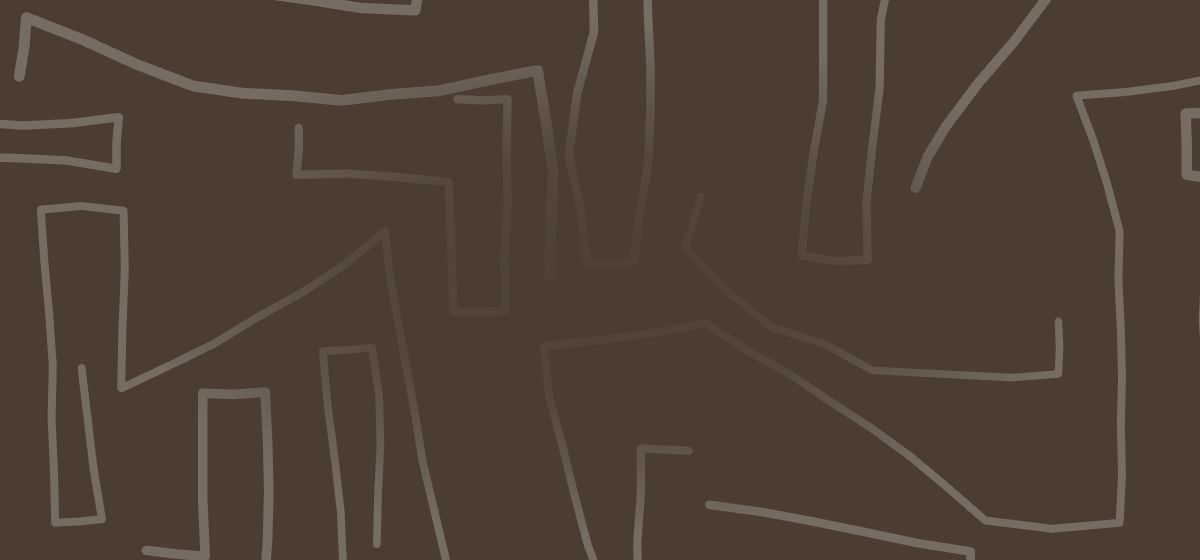
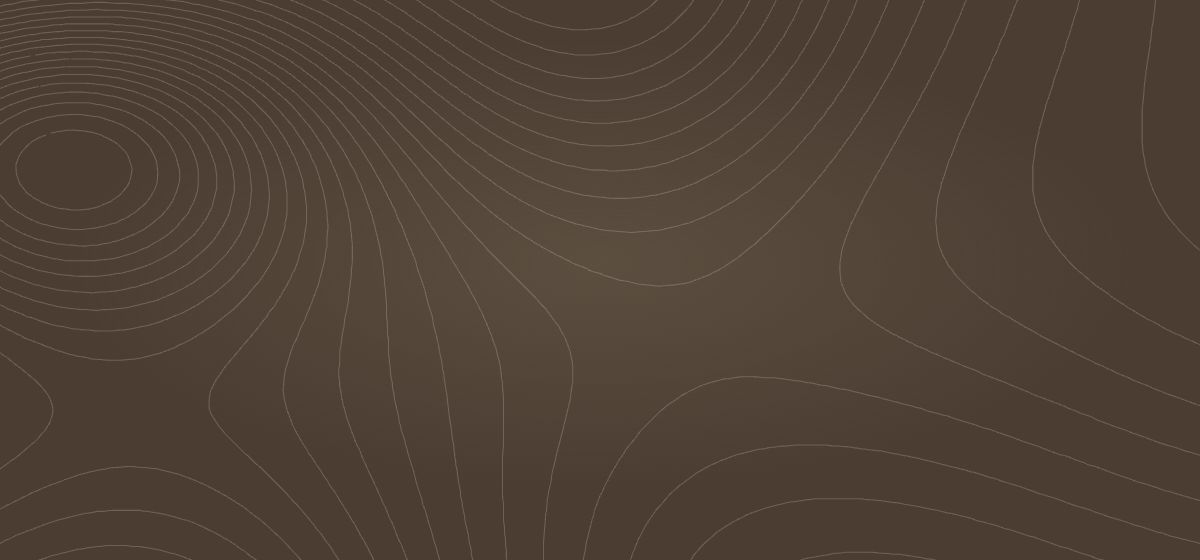
The Arden: restore the original contour-line background
Nina (2026-11-24): "The team prefers the original background graphic
with the swirls." Restore contours.svg from the first build with its
original settings (hero opacity 0.2, band 0.09, no espresso pool behind
the logo), delete round 1's lines.svg, and re-render the share image
and the email header on the contours. STATUS: round 4.

diff --git a/arden-franklin/theme/arden-franklin/assets/css/global.css b/arden-franklin/theme/arden-franklin/assets/css/global.css
@@ -3474,7 +3474,7 @@ html, body { overflow-x: clip; }
    29n. COMING-SOON SPLASH (index.html until the full site launches)
    ==========================================================================
    One page: a dark brand hero (no photography exists yet, so the hero is the
-   logo on espresso over the hand-drawn line pattern), an introduction, the
+   logo on espresso over the contour-line texture), an introduction, the
    amenity and unit-feature lists on a dark band, the setting, and the interest-list form. Every
    dark component here is registered in BOTH dark-band lists in section 4.
    ========================================================================== */
@@ -3506,17 +3506,17 @@ html, body { overflow-x: clip; }
   #about, #setting, #inquire { scroll-margin-top: var(--nav-height-mob); }
 }
 
-/* ---- Line pattern (assets/images/texture/lines.svg) -------------------------
-   An original hand-drawn pattern of bold, angular Stone lines that meander
-   without touching, made at Sterling's request (round 1, 2026-11-16) for a
-   graphic, wallpaper-like field in place of the first round's contour lines.
-   Used on the dark hero and band and on the Intrigue panel. */
+/* ---- Contour-line texture (assets/images/texture/contours.svg) --------------
+   Stone contour lines ("the swirls") generated for the brand's natural-
+   landscape story. Round 1 swapped them for a hand-drawn line pattern; the
+   team chose these back on 2026-11-24 (Nina), so they are restored with their
+   round-1 opacity and no espresso pool behind the hero logo. */
 .splash-pattern {
   position: absolute;
   inset: -4%;
   z-index: -1;
-  background: url("../images/texture/lines.svg") center / cover no-repeat;
-  opacity: 0.3;
+  background: url("../images/texture/contours.svg") center / cover no-repeat;
+  opacity: 0.2;
   pointer-events: none;
 }
 
@@ -3534,17 +3534,7 @@ html, body { overflow-x: clip; }
   overflow: hidden;
   text-align: center;
 }
-.splash-hero .splash-pattern { z-index: -2; animation: ar-pattern-drift 50s ease-in-out infinite alternate; }
-/* A pool of espresso behind the logo and tagline keeps them on a quiet field
-   while the pattern stays bold toward the edges. */
-.splash-hero::before {
-  content: '';
-  position: absolute;
-  inset: 0;
-  z-index: -1;
-  background: radial-gradient(ellipse 46% 40% at 50% 47%, rgba(75, 61, 50, 0.94) 0%, rgba(75, 61, 50, 0.8) 45%, rgba(75, 61, 50, 0) 100%);
-  pointer-events: none;
-}
+.splash-hero .splash-pattern { animation: ar-pattern-drift 50s ease-in-out infinite alternate; }
 @keyframes ar-pattern-drift {
   from { transform: scale(1) translate3d(0, 0, 0); }
   to   { transform: scale(1.07) translate3d(-1.5%, 1%, 0); }
@@ -3683,7 +3673,7 @@ html, body { overflow-x: clip; }
    Round 3 (Nina, 2026-11-23) replaced the Calm / Comfortable / Contemporary
    values with two half-width lists divided by a Stone hairline. */
 .splash-features { position: relative; isolation: isolate; overflow: hidden; }
-.splash-features .splash-pattern { opacity: 0.1; background-position: 70% 30%; }
+.splash-features .splash-pattern { opacity: 0.09; background-position: 70% 30%; }
 .splash-features__grid {
   display: grid;
   grid-template-columns: repeat(2, minmax(0, 1fr));

diff --git a/arden-franklin/preview/email/inquiry-thank-you.html b/arden-franklin/preview/email/inquiry-thank-you.html
@@ -68,7 +68,7 @@
 
         <table role="presentation" class="wrap" width="600" cellpadding="0" cellspacing="0" border="0" style="width:600px; max-width:600px;">
 
-          <!-- HEADER — the splash hero: logo in Stone on Espresso over the line pattern. -->
+          <!-- HEADER — the splash hero: logo in Stone on Espresso over the contour lines. -->
           <tr>
             <td class="hero-pad" align="center" bgcolor="#4B3D32" background="https://arden-franklin-preview.vercel.app/theme/arden-franklin/assets/images/email/header-pattern.jpg" style="background:#4B3D32 url('https://arden-franklin-preview.vercel.app/theme/arden-franklin/assets/images/email/header-pattern.jpg') center / cover no-repeat; padding:52px 32px 48px;">
               <table role="presentation" cellpadding="0" cellspacing="0" border="0">

diff --git a/arden-franklin/preview/index.html b/arden-franklin/preview/index.html
@@ -44,7 +44,7 @@
 
 <!-- HERO — no photography or renderings exist yet, so the hero is the brand
      itself: the primary logo in Stone on Espresso (the guide's "Primary Logo
-     (Color)" panel) over the hand-drawn line pattern. The name is just
+     (Color)" panel) over the contour-line texture. The name is just
      "The Arden": Sterling dropped "at Sterling Pointe" (Nina, 2026-11-16).
      The line under the logo says it is an active adult rental community
      (Nina, 2026-11-23, replacing round 2's "55+ community"). Never "senior",

diff --git a/docs/STATUS.md b/docs/STATUS.md
@@ -582,10 +582,10 @@ then the official website closer to the end of December.** She describes a splas
 page of a website with general information and more of a COMING SOON vibe. 'Inquire here for
 more information' etc.", and points to Blue Hill's (`bluehillnj.com`) as the example.
 
-**Stage: coming-soon splash in client review; round 3 of revisions done (2026-11-23).** The page
+**Stage: coming-soon splash in client review; round 4 of revisions done (2026-11-24).** The page
 is `arden-franklin/preview/index.html` (built 2026-11-13, PR #60). It is a single page; there are
 no Residents, Availability or Gallery pages yet. `theme/arden-franklin/` holds only `assets/`
-(`global.css`, logos, site icons, the share image, the line-pattern texture and the fonts README).
+(`global.css`, logos, site icons, the share image, the contour-line texture, the email header and the fonts README).
 The client link is `https://arden-franklin-preview.vercel.app/` (Vercel project
 `arden-franklin-preview`, Root Directory `arden-franklin/`), sent to Nina 2026-11-14. Her first
 reaction: "we love the modern background design and neutral colors."
@@ -638,10 +638,18 @@ reaction: "we love the modern background design and neutral colors."
   served at `https://arden-franklin-preview.vercel.app/preview/email/inquiry-thank-you.html` once
   merged. A table-based 600px email in the splash's palette and type (Georgia/Arial fallbacks where
   the client blocks web fonts): the header pattern (`assets/images/email/header-pattern.jpg`, a
-  1200×560 render of `lines.svg`; Outlook shows plain espresso), a thank-you, an echo of the
+  1200×560 render of the texture, re-rendered on `contours.svg` in round 4; Outlook shows plain espresso), a thank-you, an echo of the
   submitted fields (sample data), Nina's amenity and unit-feature lists, contact details and an
   "Email The Arden" button. Images use absolute preview-host URLs; repoint them to the live theme
   when it is wired into the WordPress lead form. Expect revisions.
+
+**Round 4 (Nina, 2026-11-24): the contour lines are back.** "The team prefers the original
+background graphic with the swirls." Round 1's hand-drawn line pattern (`lines.svg`) is deleted
+(it is in git history at `e6ee2a6`) and `assets/images/texture/contours.svg` is restored from the
+first build (`12d6bcf`) with its original settings: opacity 0.2 on the hero, 0.09 on the features
+band, and **no** espresso pool behind the hero logo. The class is still `.splash-pattern`. The share
+image and the email header were re-rendered on the contours. **Don't swap the pattern again without
+Nina asking.**
 
 **Community wording (client-verified constraint, Nina 2026-11-23; replaces John's 2026-11-16 "55+
 community" rule).** Call it an **"active adult rental community"**. **Never "senior", "elderly" or
@@ -680,9 +688,8 @@ HOPA status unless Sterling supplies the wording.
   are commercial: Cormorant and Montserrat stand in, with the `@font-face` block commented out
   (see `assets/fonts/README.txt`).
 - **No photography or renderings exist yet**, so the hero is the logo in Stone on Espresso (the
-  guide's colour logo panel) over the line pattern (`assets/images/texture/lines.svg`; round 1
-  above). The generator is a seeded Python script (seed 11) kept outside the repo; regenerate
-  rather than hand-edit the SVG. None of the vibe-board photos is used; they are mood imagery of
+  guide's colour logo panel) over the contour-line texture (`assets/images/texture/contours.svg`;
+  see round 4). None of the vibe-board photos is used; they are mood imagery of
   unknown licence.
 - Arden-only CSS is in section 29: 29a–29m are the brand layer (most carried from Riverbend),
   29n onward the splash components (`.splash-*`, including `.splash-pattern`). Riverbend's wave divider, wave
@@ -692,7 +699,7 @@ HOPA status unless Sterling supplies the wording.
   1.18's Leads). There is no inquiry pop-up: the whole page is the inquiry.
 - Site icons are the espresso "ar" mark on Stone, opaque (32–512px); the 1200×630 share image is
   the hero (logo, "Coming Soon", "An Active Adult Rental Community · Franklin Township, NJ") on the
-  line pattern, rendered from HTML with Playwright (round 3).
+  contour lines, rendered from HTML with Playwright (round 4).
 
 ### Open — The Arden
 
